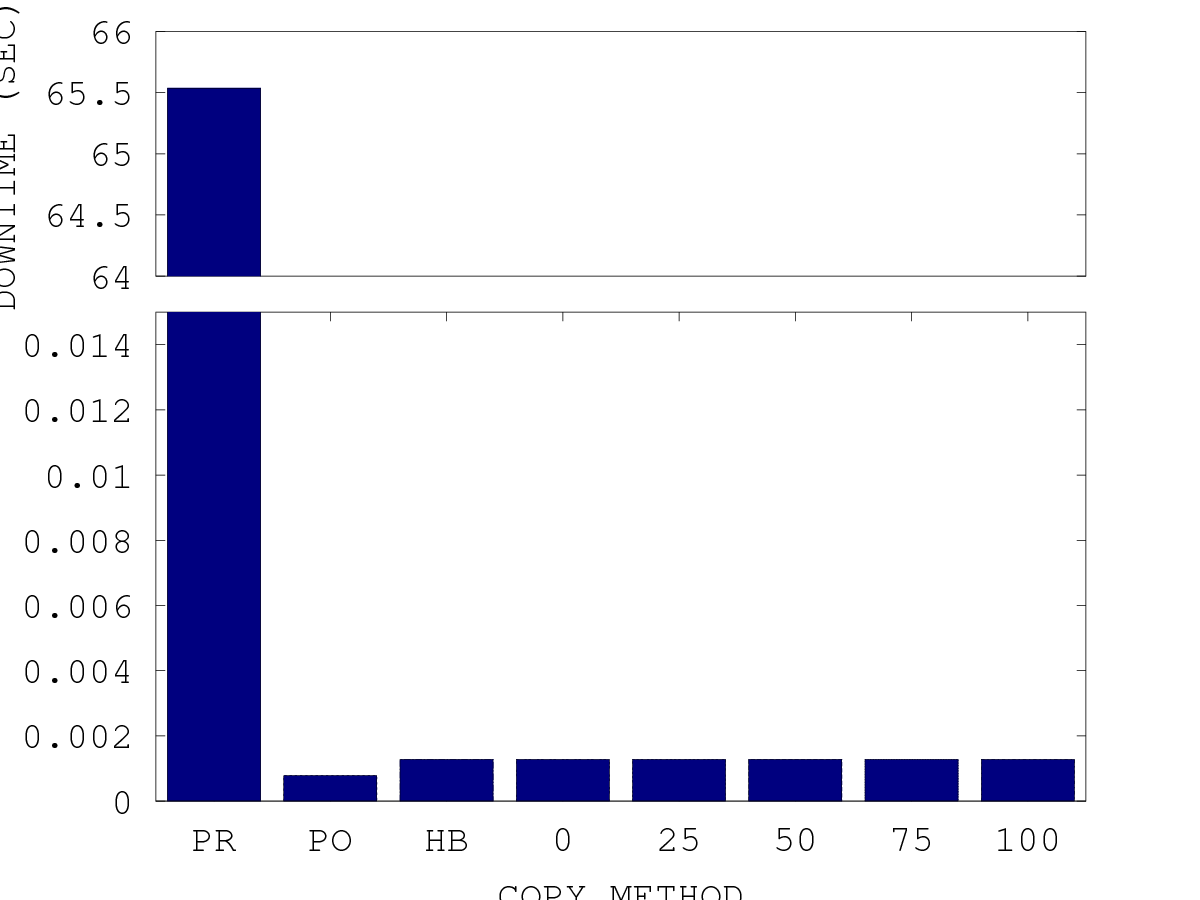
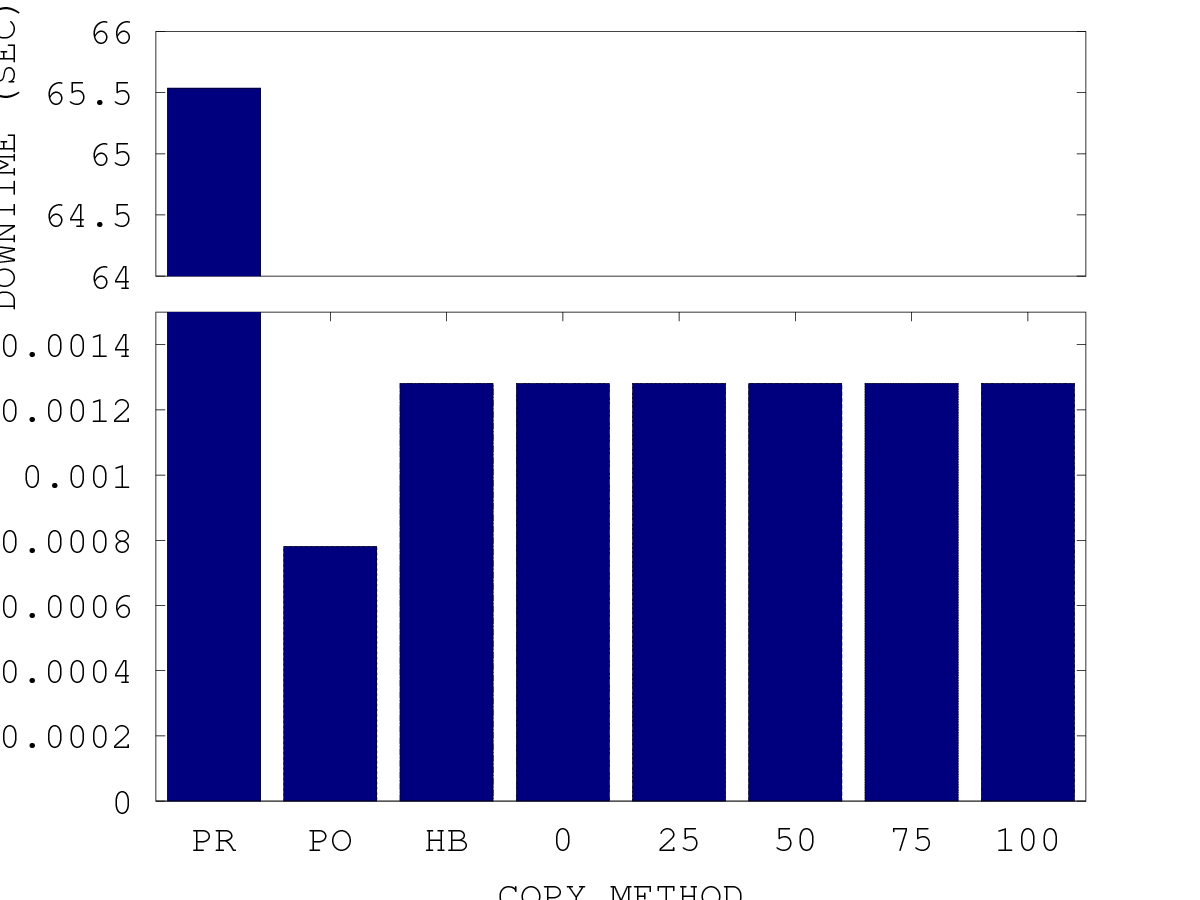
basic_break.m

diff --git a/basic_break.m b/basic_break.m
@@ -286,7 +286,7 @@ xintervals = 1:xinterval:(xinterval*length(x));
 figure;
 output = strcat(prefix, ".dt");
 
-ylim1 = [0 0.015];
+ylim1 = [0 0.0015];
 ylim2 = [64 66];
 
 %cla;
